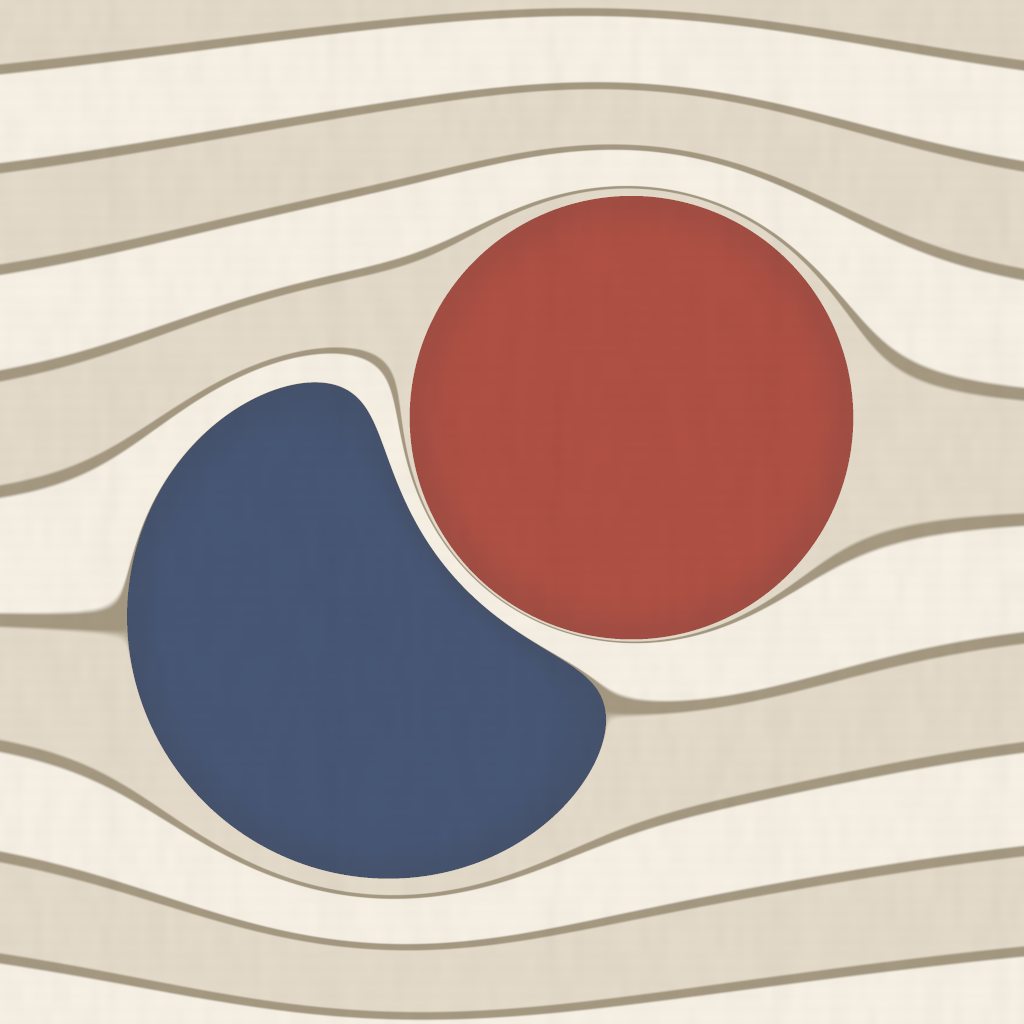
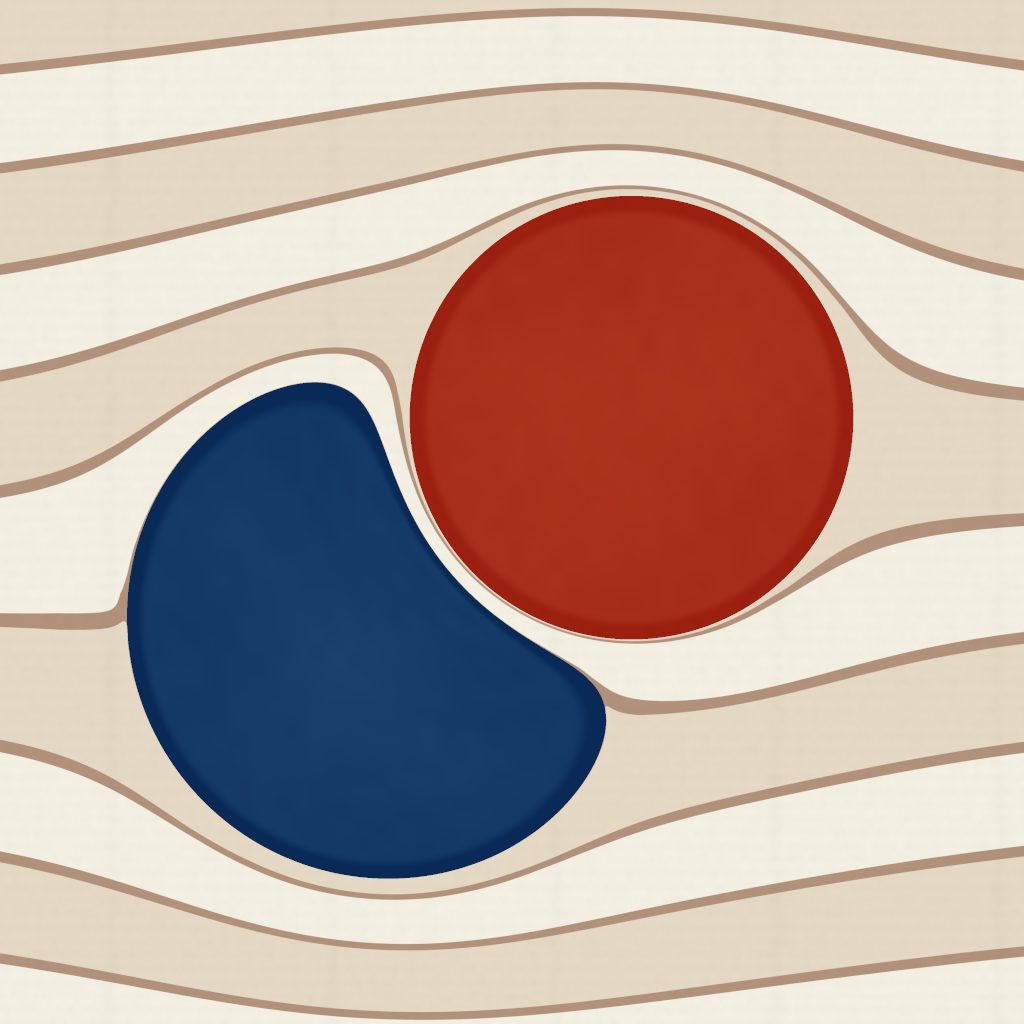
Paint the feed sheet once it has a size; settle the new look's goldens
The feed canvas is sized by container units that resolve after the first layout: it now repaints whenever its laid-out size changes, never at size 0. Two lightest inks gain a touch of chroma to keep their contrast on the new stocks at their thinnest; the shading goldens and the app icon follow the new paper and ink.

diff --git a/src/shared/sheet/palettes.ts b/src/shared/sheet/palettes.ts
@@ -82,14 +82,14 @@ const SPECS: readonly PaletteSpec[] = [
   { id: 'slate-orchard', name: 'Slate Orchard', ground: SLATE, inks: [[0.05, 245], [0.12, 40], [0.1, 135], [0.12, 90]] },
   { id: 'gold-and-ink', name: 'Gold & Ink', ground: SAGE, inks: [[0.03, 265], [0.11, 20], [0.08, 185], [0.13, 82]] },
   { id: 'teal-fathom', name: 'Teal Fathom', ground: MADDER, inks: [[0.09, 305], [0.09, 200], [0.14, 50], [0.11, 115]] },
-  { id: 'brick-and-sage', name: 'Brick & Sage', ground: IVORY, inks: [[0.08, 255], [0.13, 35], [0.07, 145], [0.1, 92]] },
+  { id: 'brick-and-sage', name: 'Brick & Sage', ground: IVORY, inks: [[0.08, 255], [0.13, 35], [0.07, 145], [0.11, 92]] },
   { id: 'ember-blue', name: 'Ember Blue', ground: DUTCH, inks: [[0.13, 262], [0.1, 10], [0.09, 140], [0.15, 60]] },
   { id: 'fig-season', name: 'Fig Season', ground: SLATE, inks: [[0.09, 340], [0.07, 175], [0.13, 45], [0.11, 85]] },
   { id: 'lichen', name: 'Lichen', ground: SLATE, inks: [[0.08, 260], [0.13, 30], [0.1, 120], [0.12, 98]] },
   { id: 'storm-ochre', name: 'Storm Ochre', ground: DUTCH, inks: [[0.04, 250], [0.12, 35], [0.06, 190], [0.13, 80]] },
   { id: 'carmine-map', name: 'Carmine Map', ground: BUFF, inks: [[0.09, 255], [0.16, 10], [0.08, 150], [0.11, 82]] },
   { id: 'juniper', name: 'Juniper', ground: SLATE, inks: [[0.07, 165], [0.09, 275], [0.13, 40], [0.12, 92]] },
-  { id: 'tobacco-lane', name: 'Tobacco Lane', ground: BUFF, inks: [[0.06, 55], [0.07, 225], [0.13, 25], [0.1, 110]] },
+  { id: 'tobacco-lane', name: 'Tobacco Lane', ground: BUFF, inks: [[0.06, 55], [0.07, 225], [0.13, 25], [0.11, 110]] },
   { id: 'winter-cobalt', name: 'Winter Cobalt', ground: DUTCH, inks: [[0.13, 263], [0.13, 30], [0.07, 175], [0.12, 85]] },
 ];
 

diff --git a/src/shared/render/shading.test.ts b/src/shared/render/shading.test.ts
@@ -28,13 +28,13 @@ const pixel = (ops: readonly FieldOp[], x: number, y: number): [number, number, 
 
 test('shading matches its golden values (a change here is a change of the look: update the shader too)', () => {
   const golden: readonly { at: readonly [number, number]; rgb: readonly [number, number, number] }[] = [
-    { at: [8, 7], rgb: [0.707153, 0.384756, 0.081368] }, // the round drop's centre wash, granulated
-    { at: [9.746, 7], rgb: [0.695203, 0.362602, 0.068645] }, // its tide line
-    { at: [5.6, 9.9], rgb: [0.007849, 0.039751, 0.1943] }, // inside the crescent, compressed and granulated
-    { at: [1.5, 2.5], rgb: [0.893235, 0.844006, 0.75795] }, // bare paper
-    { at: [1, 13.2], rgb: [0.75128, 0.678338, 0.564182] }, // band
-    { at: [1, 14.98], rgb: [0.363699, 0.307311, 0.214355] }, // rule
-    { at: [1, 14.95], rgb: [0.557645, 0.504121, 0.414076] }, // the rule's analytic pen edge
+    { at: [8, 7], rgb: [0.707184, 0.384739, 0.081372] }, // the round drop's centre wash, granulated
+    { at: [9.746, 7], rgb: [0.695734, 0.362319, 0.068701] }, // its tide line
+    { at: [5.6, 9.9], rgb: [0.007847, 0.03976, 0.194254] }, // inside the crescent, compressed and granulated
+    { at: [1.5, 2.5], rgb: [0.884917, 0.852098, 0.750393] }, // bare paper
+    { at: [1, 13.2], rgb: [0.766391, 0.671282, 0.539091] }, // band
+    { at: [1, 14.98], rgb: [0.436592, 0.281174, 0.193261] }, // rule
+    { at: [1, 14.95], rgb: [0.600288, 0.490716, 0.39806] }, // the rule's analytic pen edge
   ];
   for (const { at, rgb } of golden) {
     const got = pixel(OPS, at[0], at[1]);

diff --git a/src/client/ui/card/use-cpu-sheet.ts b/src/client/ui/card/use-cpu-sheet.ts
@@ -8,13 +8,34 @@ import type { SheetFrame } from '../../render/renderer.ts';
  * Paints a sheet on the CPU, fast first: every pixel centre now, then only
  * the edges resampled when the browser is idle. Used on the feed, where a
  * WebGL context per post would be wasteful.
+ *
+ * The canvas is sized by CSS (container units), which may only resolve after
+ * the first layout, and the feed can change width (rotation, split views):
+ * the sheet is painted whenever its laid-out size changes, never at size 0.
  */
 export const useCpuSheet = (canvas: RefObject<HTMLCanvasElement | null>, frame: SheetFrame | null): void => {
   useEffect(() => {
     const target = canvas.current;
     if (!target || !frame) return;
-    const refine = paintStaticSheet(target, frame, EDGE_SAMPLES.still);
-    if (!refine) return;
-    return whenIdle(refine);
+    let cancelRefine: (() => void) | null = null;
+    let painted = { width: 0, height: 0 };
+
+    const paint = (): void => {
+      const width = target.clientWidth;
+      const height = target.clientHeight;
+      if (width === 0 || height === 0 || (width === painted.width && height === painted.height)) return;
+      painted = { width, height };
+      cancelRefine?.();
+      const refine = paintStaticSheet(target, frame, EDGE_SAMPLES.still);
+      cancelRefine = refine ? whenIdle(refine) : null;
+    };
+
+    paint();
+    const observer = new ResizeObserver(paint);
+    observer.observe(target);
+    return () => {
+      observer.disconnect();
+      cancelRefine?.();
+    };
   }, [canvas, frame]);
 };
